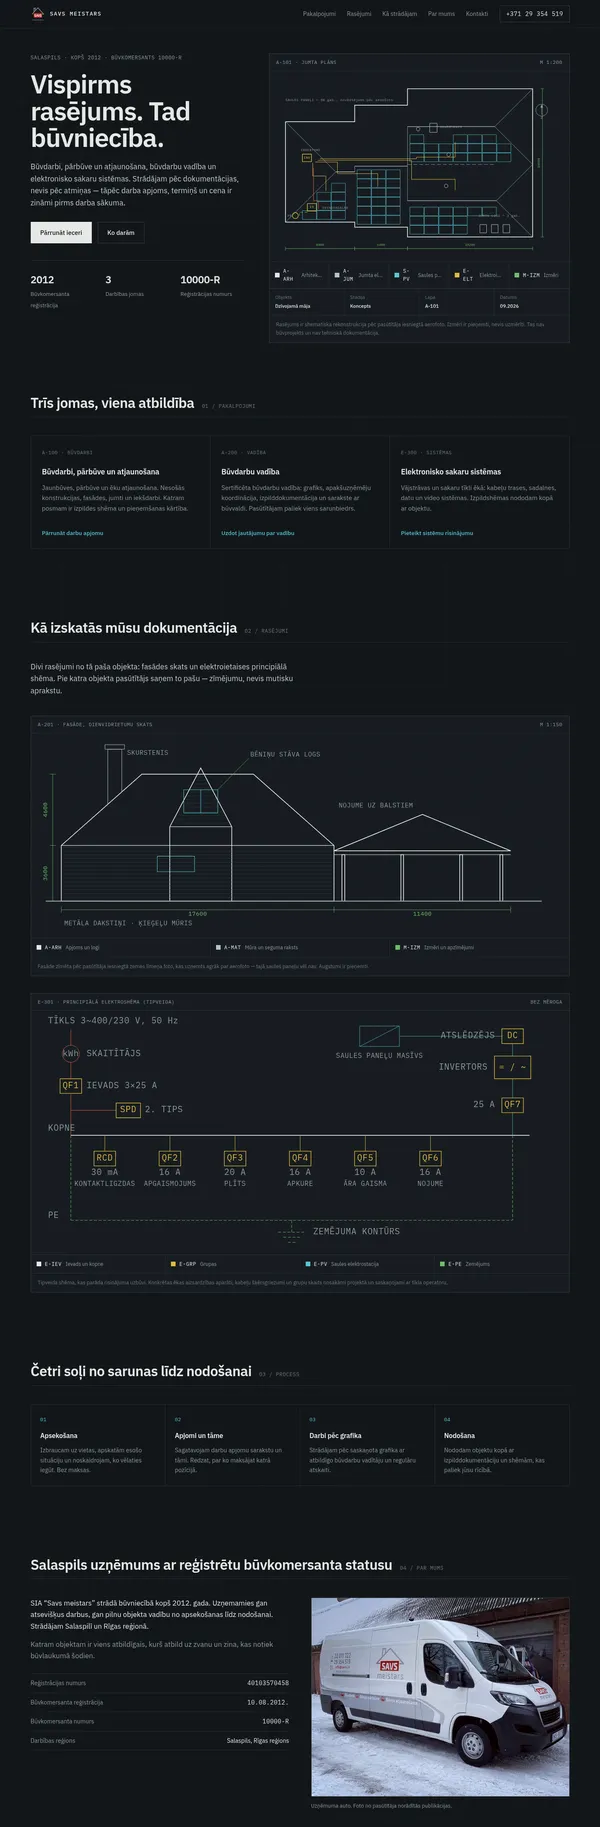
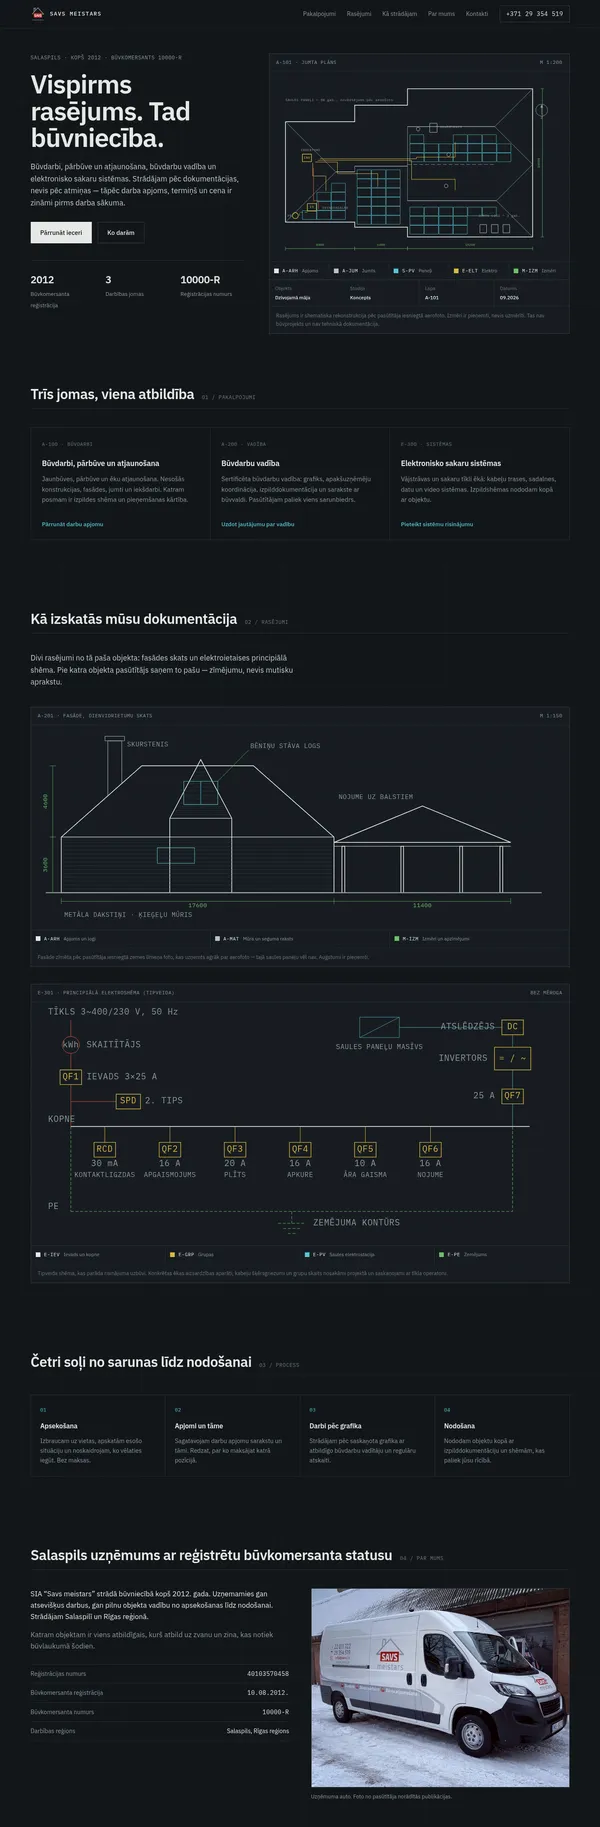
Atjaunina piektās versijas priekšskatu un precizē aprakstu
Vākā “Jūsu mājas” nomainīts pret “Reālas mājas” — kuras mājas foto tas
ir, no uzdevuma neizriet.

Claude-Session: https://claude.ai/code/session_01GfD4Ama3XoECesJfTBw5Z4

diff --git a/index.html b/index.html
@@ -262,7 +262,7 @@
     <li>
       <span class="num">05</span>
       <h2>Vispirms rasējums. Tad būvniecība.</h2>
-      <p class="desc">Tumša rasējumu darbvirsma. Jūsu mājas jumta plāns, fasāde un elektroshēma ar ieslēdzamiem slāņiem. Tehniskākais no pieciem.</p>
+      <p class="desc">Tumša rasējumu darbvirsma. Reālas mājas jumta plāns, fasāde un elektroshēma ar ieslēdzamiem slāņiem. Tehniskākais no pieciem.</p>
       <a class="open" href="https://lavrinovich86.github.io/savs-meistars-v5/" target="_blank" rel="noopener">Atvērt piekto versiju</a>
 
       <a class="proof" href="https://lavrinovich86.github.io/savs-meistars-v5/" target="_blank" rel="noopener">
